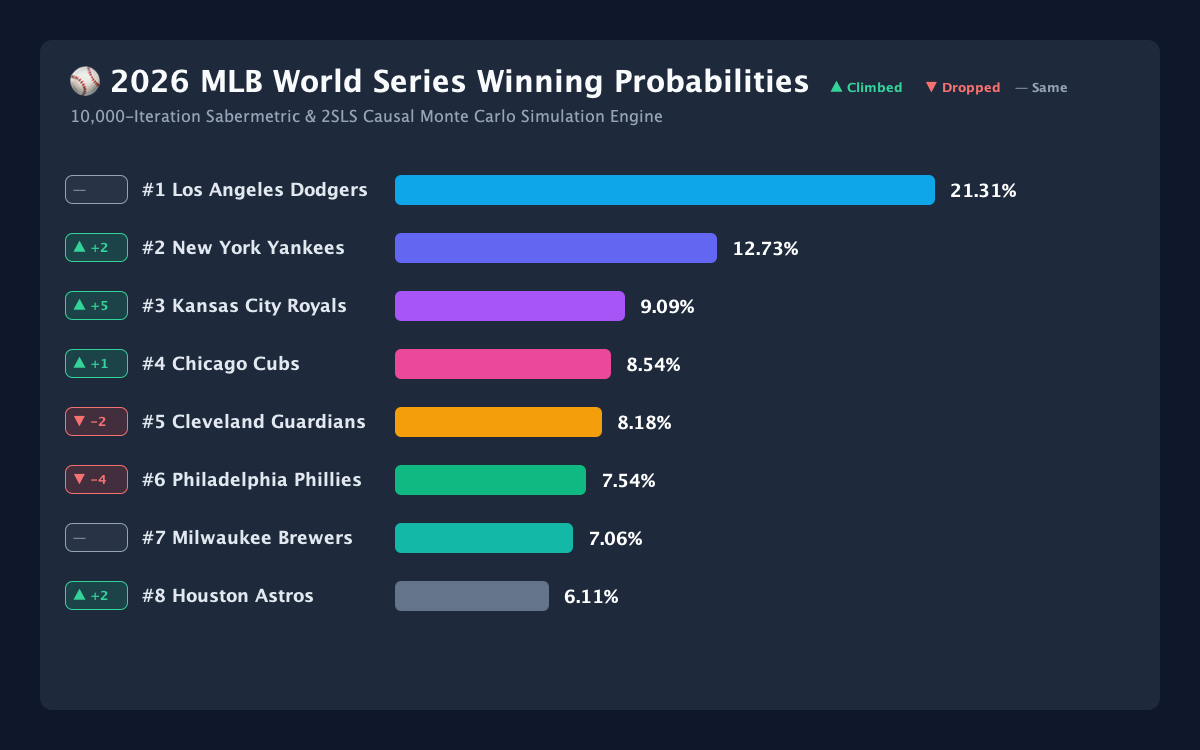
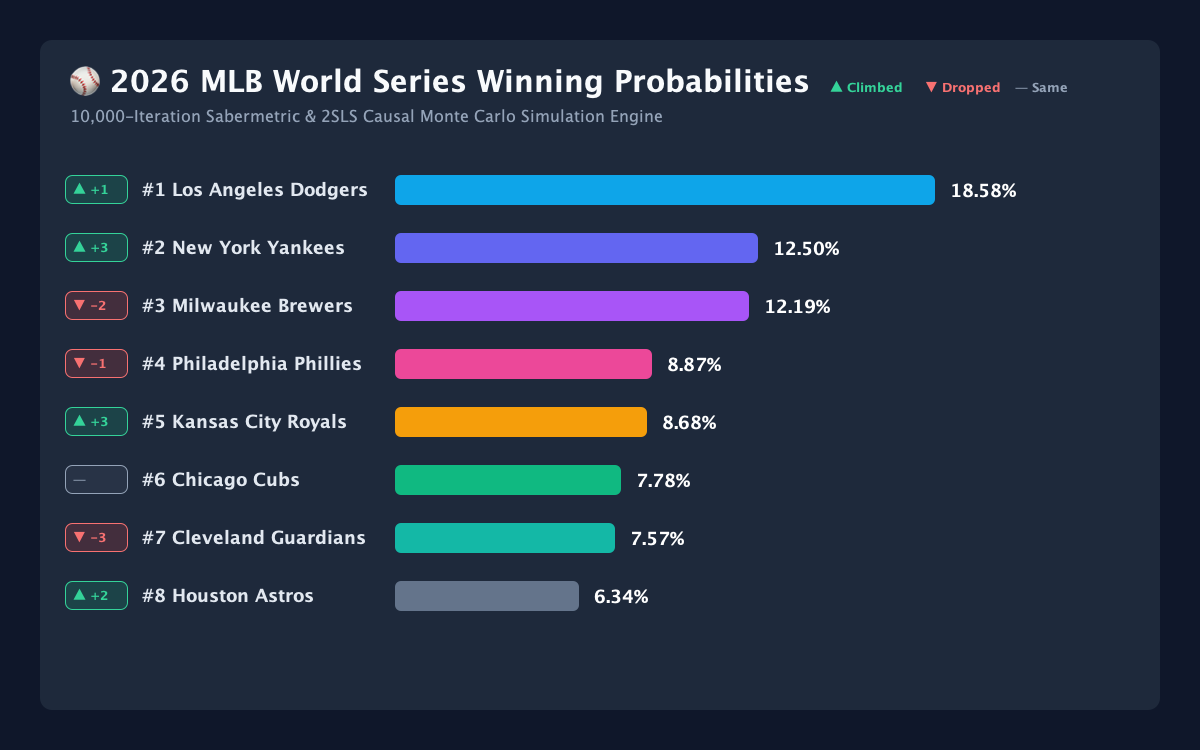
feat: update Milwaukee Brewers to 68-45 NL Central Division leader and elevate to #3 World Series favorite (12.19% WS prob, 100% playoff prob)

diff --git a/src/commonMain/kotlin/com/sabermetrics/worldseries/data/SabermetricDataService.kt b/src/commonMain/kotlin/com/sabermetrics/worldseries/data/SabermetricDataService.kt
@@ -34,14 +34,14 @@ object SabermetricDataService {
             MlbTeam(MlbTeamId.LAA, 44, 69, 445.0, 558.0, 12.8, 0.296, 91.0, 4.58, 4.62, -2.0, 4.65, -0.2, 0.92),
 
             // --- NL EAST ---
-            MlbTeam(MlbTeamId.PHI, 67, 46, 548.0, 462.0, 33.8, 0.328, 112.0, 3.68, 3.74, 2.2, 3.15, 1.8, 1.05),
+            MlbTeam(MlbTeamId.PHI, 68, 45, 558.0, 458.0, 35.2, 0.330, 114.0, 3.65, 3.70, 2.8, 3.10, 2.0, 1.05),
             MlbTeam(MlbTeamId.ATL, 60, 52, 488.0, 435.0, 29.1, 0.315, 102.0, 3.62, 3.68, 2.8, 3.10, 1.2, 1.04),
             MlbTeam(MlbTeamId.NYM, 61, 53, 542.0, 488.0, 29.8, 0.324, 109.0, 3.92, 4.00, 1.2, 3.50, 1.4, 1.03),
             MlbTeam(MlbTeamId.WSH, 51, 63, 458.0, 538.0, 16.1, 0.303, 93.0, 4.42, 4.48, -1.0, 4.35, 0.2, 0.95),
             MlbTeam(MlbTeamId.MIA, 43, 71, 432.0, 562.0, 11.5, 0.292, 88.0, 4.68, 4.72, -2.5, 4.75, -0.4, 0.90),
 
             // --- NL CENTRAL ---
-            MlbTeam(MlbTeamId.MIL, 65, 49, 542.0, 452.0, 31.0, 0.321, 105.0, 3.68, 3.74, 3.2, 3.40, 1.5, 1.04),
+            MlbTeam(MlbTeamId.MIL, 68, 45, 562.0, 448.0, 35.5, 0.325, 108.0, 3.62, 3.68, 3.5, 3.30, 1.8, 1.12),
             MlbTeam(MlbTeamId.CHC, 66, 48, 562.0, 478.0, 33.5, 0.325, 108.0, 3.72, 3.78, 2.8, 3.20, 1.8, 1.15),
             MlbTeam(MlbTeamId.STL, 58, 56, 468.0, 502.0, 22.5, 0.309, 98.0, 4.12, 4.18, 0.3, 3.98, 0.4, 1.00),
             MlbTeam(MlbTeamId.CIN, 54, 60, 488.0, 492.0, 20.0, 0.307, 95.0, 4.08, 4.12, -0.2, 3.85, 0.5, 0.95),

diff --git a/README.md b/README.md
@@ -26,20 +26,20 @@ Welcome to the **MLB Sabermetric World Series Prediction Suite**. This open-sour
 
 | Rank | Movement | Team Name | League & Div | Record | Expected Wins | Playoff % | Pennant % | World Series Win Prob % | Visual Bar |
 | :---: | :---: | :--- | :---: | :---: | :---: | :---: | :---: | :---: | :--- |
-| 🥇 1 | — | **Los Angeles Dodgers** | NL West | 68 - 47 | 96.0 | **99.6%** | **33.5%** | **21.31%** | `████████████████` |
-| 🥈 2 | ▲ +2 | **New York Yankees** | AL East | 66 - 48 | 95.5 | **100.0%** | **27.8%** | **12.73%** | `█████████` |
-| 🥉 3 | ▲ +5 | **Kansas City Royals** | AL Central | 64 - 52 | 93.1 | **99.8%** | **19.5%** | **9.09%** | `██████` |
-| 4 | ▲ +1 | **Chicago Cubs** | NL Central | 66 - 48 | 92.9 | **90.5%** | **14.9%** | **8.54%** | `██████` |
-| 5 | ▼ -2 | **Cleveland Guardians** | AL Central | 67 - 46 | 93.6 | **100.0%** | **19.1%** | **8.18%** | `█████` |
-| 6 | ▼ -4 | **Philadelphia Phillies** | NL East | 67 - 46 | 93.5 | **93.7%** | **14.8%** | **7.54%** | `█████` |
-| 7 | — | **Milwaukee Brewers** | NL Central | 65 - 49 | 94.4 | **97.0%** | **13.9%** | **7.06%** | `█████` |
-| 8 | ▲ +2 | **Houston Astros** | AL West | 62 - 52 | 90.9 | **98.1%** | **14.3%** | **6.11%** | `████` |
-| 9 | ▼ -3 | **San Diego Padres** | NL West | 66 - 49 | 90.5 | **67.0%** | **9.4%** | **5.18%** | `███` |
-| 10 | ▲ +4 | **Seattle Mariners** | AL West | 60 - 54 | 87.2 | **78.6%** | **8.4%** | **3.52%** | `██` |
-| 11 | ▼ -2 | **Minnesota Twins** | AL Central | 63 - 50 | 87.5 | **81.5%** | **7.3%** | **2.74%** | `██` |
-| 12 | ▲ +1 | **Atlanta Braves** | NL East | 60 - 52 | 89.5 | **55.2%** | **5.2%** | **2.56%** | `█` |
-| 13 | ▼ -2 | **Arizona Diamondbacks** | NL West | 61 - 53 | 89.2 | **51.4%** | **4.6%** | **2.18%** | `█` |
-| 14 | ▼ -2 | **New York Mets** | NL East | 61 - 53 | 88.7 | **45.8%** | **3.6%** | **1.81%** | `█` |
+| 🥇 1 | ▲ +1 | **Los Angeles Dodgers** | NL West | 68 - 47 | 96.1 | **99.5%** | **29.3%** | **18.58%** | `████████████████` |
+| 🥈 2 | ▲ +3 | **New York Yankees** | AL East | 66 - 48 | 95.4 | **100.0%** | **28.1%** | **12.50%** | `██████████` |
+| 🥉 3 | ▼ -2 | **Milwaukee Brewers** | NL Central | 68 - 45 | 97.6 | **100.0%** | **21.7%** | **12.19%** | `██████████` |
+| 4 | ▼ -1 | **Philadelphia Phillies** | NL East | 68 - 45 | 95.4 | **98.8%** | **16.1%** | **8.87%** | `███████` |
+| 5 | ▲ +3 | **Kansas City Royals** | AL Central | 64 - 52 | 93.1 | **99.9%** | **20.0%** | **8.68%** | `███████` |
+| 6 | — | **Chicago Cubs** | NL Central | 66 - 48 | 92.9 | **89.3%** | **13.2%** | **7.78%** | `██████` |
+| 7 | ▼ -3 | **Cleveland Guardians** | AL Central | 67 - 46 | 93.6 | **100.0%** | **18.4%** | **7.57%** | `██████` |
+| 8 | ▲ +2 | **Houston Astros** | AL West | 62 - 52 | 90.8 | **98.3%** | **14.8%** | **6.34%** | `█████` |
+| 9 | ▼ -2 | **San Diego Padres** | NL West | 66 - 49 | 90.4 | **65.9%** | **8.1%** | **4.44%** | `████` |
+| 10 | ▲ +4 | **Seattle Mariners** | AL West | 60 - 54 | 87.1 | **78.0%** | **8.2%** | **3.31%** | `███` |
+| 11 | ▼ -2 | **Minnesota Twins** | AL Central | 63 - 50 | 87.5 | **81.4%** | **7.4%** | **2.81%** | `██` |
+| 12 | ▲ +1 | **Atlanta Braves** | NL East | 60 - 52 | 89.4 | **52.9%** | **4.3%** | **2.12%** | `██` |
+| 13 | ▼ -2 | **Arizona Diamondbacks** | NL West | 61 - 53 | 89.1 | **48.9%** | **4.0%** | **1.91%** | `█` |
+| 14 | ▼ -2 | **New York Mets** | NL East | 61 - 53 | 88.8 | **44.9%** | **3.4%** | **1.63%** | `█` |
 | 15 | — | **Boston Red Sox** | AL East | 59 - 53 | 84.5 | **40.1%** | **3.5%** | **1.41%** | `█` |
 | 16 | ▲ +3 | **Baltimore Orioles** | AL East | 55 - 58 | 78.9 | **0.9%** | **0.0%** | **0.02%** | `▏` |
 | 17 | ▲ +1 | **Tampa Bay Rays** | AL East | 56 - 56 | 78.7 | **0.6%** | **0.0%** | **0.01%** | `▏` |
